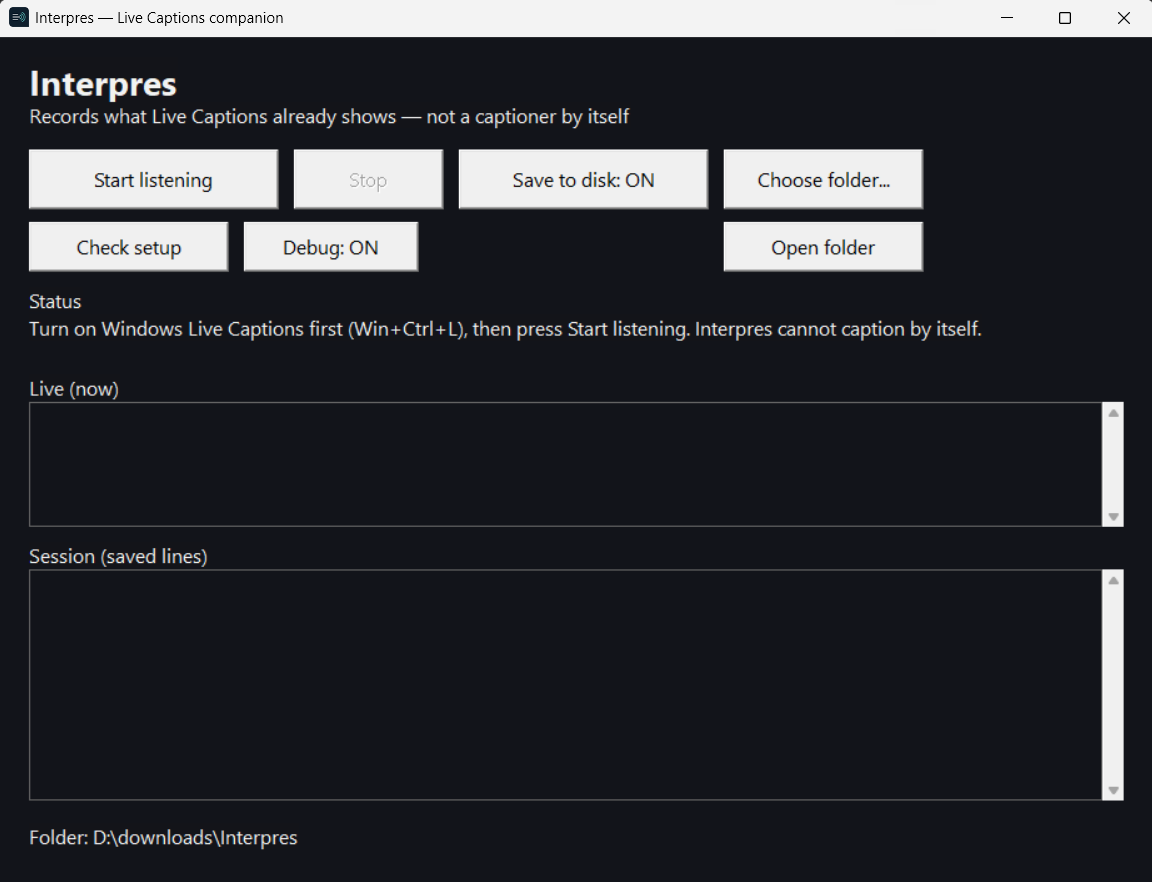
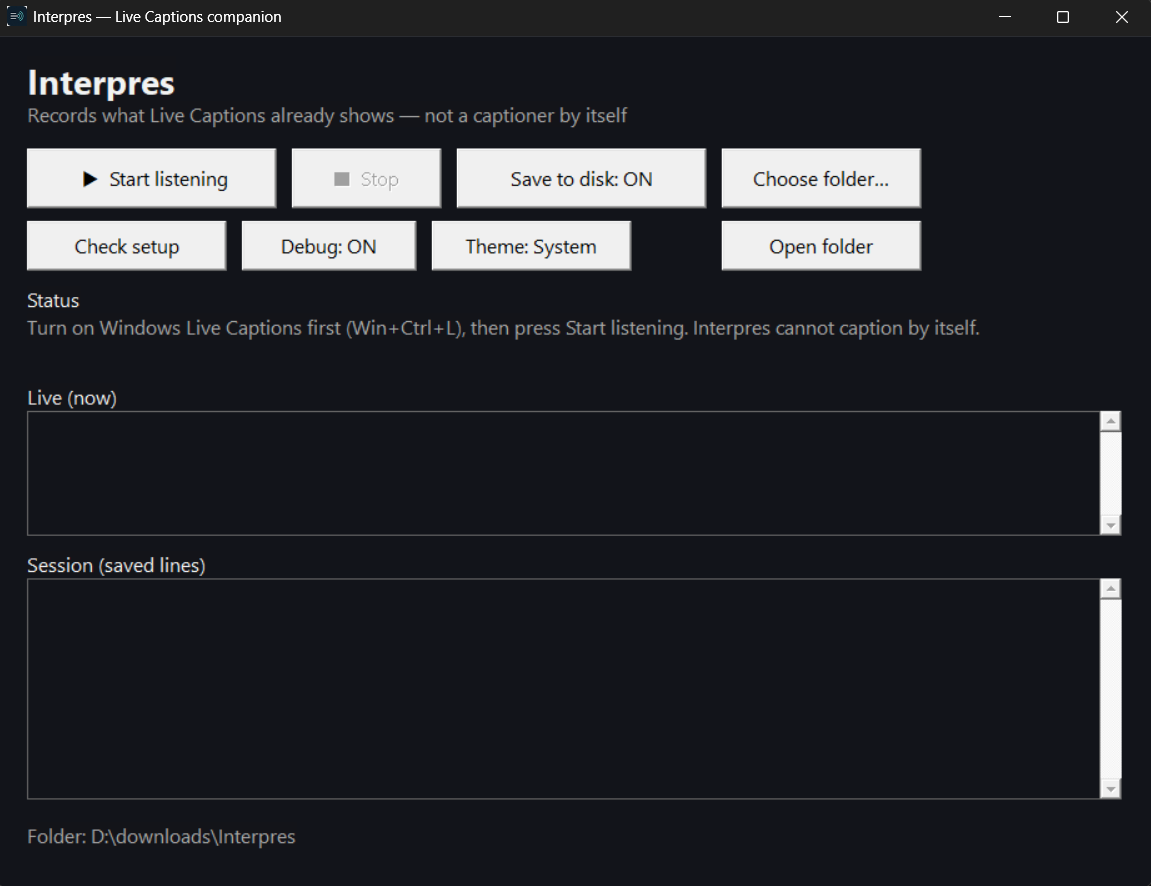
docs: show unified Windows and Mac UI screenshots in README
Side-by-side screenshots so both platforms are visible at a glance.

diff --git a/README.md b/README.md
@@ -12,11 +12,20 @@ It works **with** the Live Captions your computer already has, and can **save** 
 
 No subscription. No cloud account. No paid product. Everything stays **on your computer** unless **you** copy the files somewhere else.
 
-<p align="center">
-  <img src="assets/screenshot-windows.png" alt="Interpres on Windows — native companion window with Start listening, Save to disk, Live and Session areas" width="720" />
-</p>
+<p align="center"><em>Same companion UI on both platforms (native Win32 on Windows, native AppKit on Mac) — not a stand-alone captioner; works with OS Live Captions.</em></p>
 
-<p align="center"><em>Windows version (native Win32 window). Mac uses its own native AppKit window. Same idea on both: companion to OS Live Captions, not a stand-alone captioner.</em></p>
+<table>
+  <tr>
+    <td align="center" width="50%">
+      <strong>Windows</strong><br />
+      <img src="assets/screenshot-windows.png" alt="Interpres on Windows — native Win32 companion window with Start listening, Save to disk, Live and Session areas" width="480" />
+    </td>
+    <td align="center" width="50%">
+      <strong>Mac</strong><br />
+      <img src="assets/screenshot-macos.png" alt="Interpres on Mac — native AppKit companion window with Start listening, Save to disk, Theme, Live and Session areas" width="480" />
+    </td>
+  </tr>
+</table>
 
 ---
 
